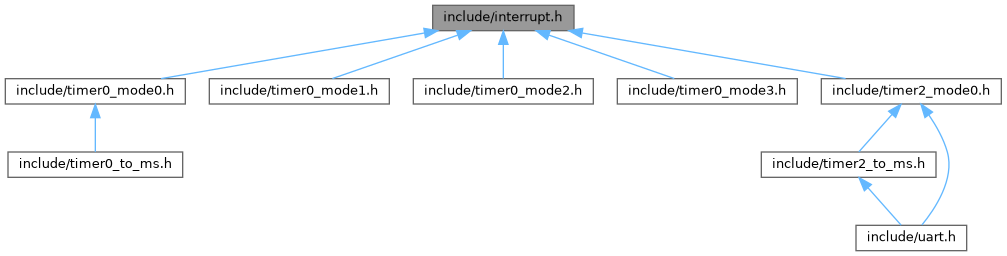
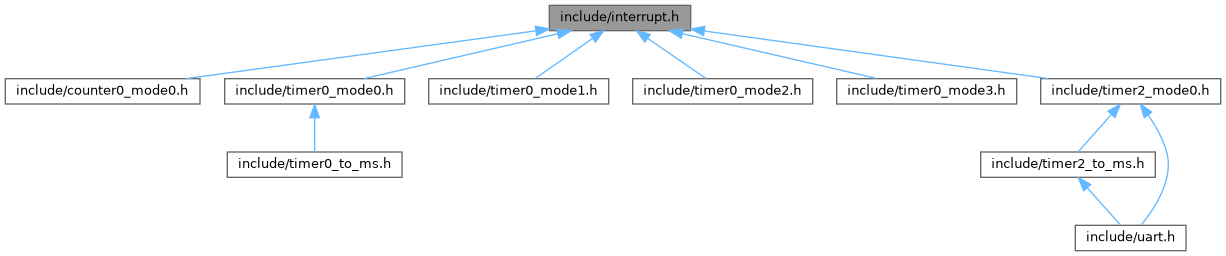
Start to counter implementation

diff --git a/docs/html/files.html b/docs/html/files.html
@@ -77,26 +77,27 @@ $(function() {
 <tr id="row_0_" class="even"><td class="entry"><span style="width:0px;display:inline-block;">&#160;</span><span id="arr_0_" class="arrow" onclick="toggleFolder('0_')">&#9660;</span><span id="img_0_" class="iconfopen" onclick="toggleFolder('0_')">&#160;</span><a class="el" href="dir_d44c64559bbebec7f509842c48db8b23.html" target="_self">include</a></td><td class="desc"></td></tr>
 <tr id="row_0_0_" class="odd"><td class="entry"><span style="width:32px;display:inline-block;">&#160;</span><a href="bits_8h_source.html"><span class="icondoc"></span></a><b>bits.h</b></td><td class="desc"></td></tr>
 <tr id="row_0_1_" class="even"><td class="entry"><span style="width:32px;display:inline-block;">&#160;</span><a href="chip__id_8h_source.html"><span class="icondoc"></span></a><a class="el" href="chip__id_8h.html" target="_self">chip_id.h</a></td><td class="desc"></td></tr>
-<tr id="row_0_2_" class="odd"><td class="entry"><span style="width:32px;display:inline-block;">&#160;</span><a href="delay_8h_source.html"><span class="icondoc"></span></a><a class="el" href="delay_8h.html" target="_self">delay.h</a></td><td class="desc"></td></tr>
-<tr id="row_0_3_" class="even"><td class="entry"><span style="width:32px;display:inline-block;">&#160;</span><a href="frequency_8h_source.html"><span class="icondoc"></span></a><a class="el" href="frequency_8h.html" target="_self">frequency.h</a></td><td class="desc"></td></tr>
-<tr id="row_0_4_" class="odd"><td class="entry"><span style="width:32px;display:inline-block;">&#160;</span><a href="interrupt_8h_source.html"><span class="icondoc"></span></a><a class="el" href="interrupt_8h.html" target="_self">interrupt.h</a></td><td class="desc"></td></tr>
-<tr id="row_0_5_" class="even"><td class="entry"><span style="width:32px;display:inline-block;">&#160;</span><a href="pin_8h_source.html"><span class="icondoc"></span></a><a class="el" href="pin_8h.html" target="_self">pin.h</a></td><td class="desc"></td></tr>
-<tr id="row_0_6_" class="odd"><td class="entry"><span style="width:32px;display:inline-block;">&#160;</span><a href="power__management_8h_source.html"><span class="icondoc"></span></a><a class="el" href="power__management_8h.html" target="_self">power_management.h</a></td><td class="desc"></td></tr>
-<tr id="row_0_7_" class="even"><td class="entry"><span style="width:32px;display:inline-block;">&#160;</span><a href="reset_8h_source.html"><span class="icondoc"></span></a><a class="el" href="reset_8h.html" target="_self">reset.h</a></td><td class="desc"></td></tr>
-<tr id="row_0_8_" class="odd"><td class="entry"><span style="width:32px;display:inline-block;">&#160;</span><a href="STC15Fxx_8h_source.html"><span class="icondoc"></span></a><b>STC15Fxx.h</b></td><td class="desc"></td></tr>
-<tr id="row_0_9_" class="even"><td class="entry"><span style="width:32px;display:inline-block;">&#160;</span><a href="sys_8h_source.html"><span class="icondoc"></span></a><a class="el" href="sys_8h.html" target="_self">sys.h</a></td><td class="desc"></td></tr>
-<tr id="row_0_10_" class="odd"><td class="entry"><span style="width:32px;display:inline-block;">&#160;</span><a href="timer0__mode0_8h_source.html"><span class="icondoc"></span></a><a class="el" href="timer0__mode0_8h.html" target="_self">timer0_mode0.h</a></td><td class="desc"></td></tr>
-<tr id="row_0_11_" class="even"><td class="entry"><span style="width:32px;display:inline-block;">&#160;</span><a href="timer0__mode1_8h_source.html"><span class="icondoc"></span></a><a class="el" href="timer0__mode1_8h.html" target="_self">timer0_mode1.h</a></td><td class="desc"></td></tr>
-<tr id="row_0_12_" class="odd"><td class="entry"><span style="width:32px;display:inline-block;">&#160;</span><a href="timer0__mode2_8h_source.html"><span class="icondoc"></span></a><a class="el" href="timer0__mode2_8h.html" target="_self">timer0_mode2.h</a></td><td class="desc"></td></tr>
-<tr id="row_0_13_" class="even"><td class="entry"><span style="width:32px;display:inline-block;">&#160;</span><a href="timer0__mode3_8h_source.html"><span class="icondoc"></span></a><a class="el" href="timer0__mode3_8h.html" target="_self">timer0_mode3.h</a></td><td class="desc"></td></tr>
-<tr id="row_0_14_" class="odd"><td class="entry"><span style="width:32px;display:inline-block;">&#160;</span><a href="timer0__to__ms_8h_source.html"><span class="icondoc"></span></a><a class="el" href="timer0__to__ms_8h.html" target="_self">timer0_to_ms.h</a></td><td class="desc"></td></tr>
-<tr id="row_0_15_" class="even"><td class="entry"><span style="width:32px;display:inline-block;">&#160;</span><a href="timer2__mode0_8h_source.html"><span class="icondoc"></span></a><a class="el" href="timer2__mode0_8h.html" target="_self">timer2_mode0.h</a></td><td class="desc"></td></tr>
-<tr id="row_0_16_" class="odd"><td class="entry"><span style="width:32px;display:inline-block;">&#160;</span><a href="timer2__to__ms_8h_source.html"><span class="icondoc"></span></a><a class="el" href="timer2__to__ms_8h.html" target="_self">timer2_to_ms.h</a></td><td class="desc"></td></tr>
-<tr id="row_0_17_" class="even"><td class="entry"><span style="width:32px;display:inline-block;">&#160;</span><a href="timer__common_8h_source.html"><span class="icondoc"></span></a><a class="el" href="timer__common_8h.html" target="_self">timer_common.h</a></td><td class="desc"></td></tr>
-<tr id="row_0_18_" class="odd"><td class="entry"><span style="width:32px;display:inline-block;">&#160;</span><a href="timer__structs_8h_source.html"><span class="icondoc"></span></a><b>timer_structs.h</b></td><td class="desc"></td></tr>
-<tr id="row_0_19_" class="even"><td class="entry"><span style="width:32px;display:inline-block;">&#160;</span><a href="timer__to__ms__common_8h_source.html"><span class="icondoc"></span></a><a class="el" href="timer__to__ms__common_8h.html" target="_self">timer_to_ms_common.h</a></td><td class="desc"></td></tr>
-<tr id="row_0_20_" class="odd"><td class="entry"><span style="width:32px;display:inline-block;">&#160;</span><a href="uart_8h_source.html"><span class="icondoc"></span></a><a class="el" href="uart_8h.html" target="_self">uart.h</a></td><td class="desc"></td></tr>
-<tr id="row_0_21_" class="even"><td class="entry"><span style="width:32px;display:inline-block;">&#160;</span><a href="wdt_8h_source.html"><span class="icondoc"></span></a><a class="el" href="wdt_8h.html" target="_self">wdt.h</a></td><td class="desc"></td></tr>
+<tr id="row_0_2_" class="odd"><td class="entry"><span style="width:32px;display:inline-block;">&#160;</span><a href="counter0__mode0_8h_source.html"><span class="icondoc"></span></a><b>counter0_mode0.h</b></td><td class="desc"></td></tr>
+<tr id="row_0_3_" class="even"><td class="entry"><span style="width:32px;display:inline-block;">&#160;</span><a href="delay_8h_source.html"><span class="icondoc"></span></a><a class="el" href="delay_8h.html" target="_self">delay.h</a></td><td class="desc"></td></tr>
+<tr id="row_0_4_" class="odd"><td class="entry"><span style="width:32px;display:inline-block;">&#160;</span><a href="frequency_8h_source.html"><span class="icondoc"></span></a><a class="el" href="frequency_8h.html" target="_self">frequency.h</a></td><td class="desc"></td></tr>
+<tr id="row_0_5_" class="even"><td class="entry"><span style="width:32px;display:inline-block;">&#160;</span><a href="interrupt_8h_source.html"><span class="icondoc"></span></a><a class="el" href="interrupt_8h.html" target="_self">interrupt.h</a></td><td class="desc"></td></tr>
+<tr id="row_0_6_" class="odd"><td class="entry"><span style="width:32px;display:inline-block;">&#160;</span><a href="pin_8h_source.html"><span class="icondoc"></span></a><a class="el" href="pin_8h.html" target="_self">pin.h</a></td><td class="desc"></td></tr>
+<tr id="row_0_7_" class="even"><td class="entry"><span style="width:32px;display:inline-block;">&#160;</span><a href="power__management_8h_source.html"><span class="icondoc"></span></a><a class="el" href="power__management_8h.html" target="_self">power_management.h</a></td><td class="desc"></td></tr>
+<tr id="row_0_8_" class="odd"><td class="entry"><span style="width:32px;display:inline-block;">&#160;</span><a href="reset_8h_source.html"><span class="icondoc"></span></a><a class="el" href="reset_8h.html" target="_self">reset.h</a></td><td class="desc"></td></tr>
+<tr id="row_0_9_" class="even"><td class="entry"><span style="width:32px;display:inline-block;">&#160;</span><a href="STC15Fxx_8h_source.html"><span class="icondoc"></span></a><b>STC15Fxx.h</b></td><td class="desc"></td></tr>
+<tr id="row_0_10_" class="odd"><td class="entry"><span style="width:32px;display:inline-block;">&#160;</span><a href="sys_8h_source.html"><span class="icondoc"></span></a><a class="el" href="sys_8h.html" target="_self">sys.h</a></td><td class="desc"></td></tr>
+<tr id="row_0_11_" class="even"><td class="entry"><span style="width:32px;display:inline-block;">&#160;</span><a href="timer0__mode0_8h_source.html"><span class="icondoc"></span></a><a class="el" href="timer0__mode0_8h.html" target="_self">timer0_mode0.h</a></td><td class="desc"></td></tr>
+<tr id="row_0_12_" class="odd"><td class="entry"><span style="width:32px;display:inline-block;">&#160;</span><a href="timer0__mode1_8h_source.html"><span class="icondoc"></span></a><a class="el" href="timer0__mode1_8h.html" target="_self">timer0_mode1.h</a></td><td class="desc"></td></tr>
+<tr id="row_0_13_" class="even"><td class="entry"><span style="width:32px;display:inline-block;">&#160;</span><a href="timer0__mode2_8h_source.html"><span class="icondoc"></span></a><a class="el" href="timer0__mode2_8h.html" target="_self">timer0_mode2.h</a></td><td class="desc"></td></tr>
+<tr id="row_0_14_" class="odd"><td class="entry"><span style="width:32px;display:inline-block;">&#160;</span><a href="timer0__mode3_8h_source.html"><span class="icondoc"></span></a><a class="el" href="timer0__mode3_8h.html" target="_self">timer0_mode3.h</a></td><td class="desc"></td></tr>
+<tr id="row_0_15_" class="even"><td class="entry"><span style="width:32px;display:inline-block;">&#160;</span><a href="timer0__to__ms_8h_source.html"><span class="icondoc"></span></a><a class="el" href="timer0__to__ms_8h.html" target="_self">timer0_to_ms.h</a></td><td class="desc"></td></tr>
+<tr id="row_0_16_" class="odd"><td class="entry"><span style="width:32px;display:inline-block;">&#160;</span><a href="timer2__mode0_8h_source.html"><span class="icondoc"></span></a><a class="el" href="timer2__mode0_8h.html" target="_self">timer2_mode0.h</a></td><td class="desc"></td></tr>
+<tr id="row_0_17_" class="even"><td class="entry"><span style="width:32px;display:inline-block;">&#160;</span><a href="timer2__to__ms_8h_source.html"><span class="icondoc"></span></a><a class="el" href="timer2__to__ms_8h.html" target="_self">timer2_to_ms.h</a></td><td class="desc"></td></tr>
+<tr id="row_0_18_" class="odd"><td class="entry"><span style="width:32px;display:inline-block;">&#160;</span><a href="timer__common_8h_source.html"><span class="icondoc"></span></a><a class="el" href="timer__common_8h.html" target="_self">timer_common.h</a></td><td class="desc"></td></tr>
+<tr id="row_0_19_" class="even"><td class="entry"><span style="width:32px;display:inline-block;">&#160;</span><a href="timer__structs_8h_source.html"><span class="icondoc"></span></a><b>timer_structs.h</b></td><td class="desc"></td></tr>
+<tr id="row_0_20_" class="odd"><td class="entry"><span style="width:32px;display:inline-block;">&#160;</span><a href="timer__to__ms__common_8h_source.html"><span class="icondoc"></span></a><a class="el" href="timer__to__ms__common_8h.html" target="_self">timer_to_ms_common.h</a></td><td class="desc"></td></tr>
+<tr id="row_0_21_" class="even"><td class="entry"><span style="width:32px;display:inline-block;">&#160;</span><a href="uart_8h_source.html"><span class="icondoc"></span></a><a class="el" href="uart_8h.html" target="_self">uart.h</a></td><td class="desc"></td></tr>
+<tr id="row_0_22_" class="odd"><td class="entry"><span style="width:32px;display:inline-block;">&#160;</span><a href="wdt_8h_source.html"><span class="icondoc"></span></a><a class="el" href="wdt_8h.html" target="_self">wdt.h</a></td><td class="desc"></td></tr>
 </table>
 </div><!-- directory -->
 </div><!-- contents -->

diff --git a/docs/html/sys_8h.html b/docs/html/sys_8h.html
@@ -96,33 +96,33 @@ This graph shows which files directly or indirectly include this file:</div>
 <div class="dyncontent">
 <div class="center"><img src="sys_8h__dep__incl.png" border="0" usemap="#ainclude_2sys_8hdep" alt=""/></div>
 <map name="ainclude_2sys_8hdep" id="ainclude_2sys_8hdep">
-<area shape="rect" title=" " alt="" coords="1033,5,1140,31"/>
+<area shape="rect" title=" " alt="" coords="1168,5,1275,31"/>
 <area shape="rect" href="chip__id_8h.html" title=" " alt="" coords="5,79,136,104"/>
-<area shape="poly" title=" " alt="" coords="1019,25,651,43,405,60,155,81,136,83,136,78,154,76,404,55,650,38,1019,19"/>
+<area shape="poly" title=" " alt="" coords="1155,24,733,41,447,58,155,81,136,83,136,78,154,76,446,53,733,36,1154,19"/>
 <area shape="rect" href="frequency_8h.html" title=" " alt="" coords="407,79,555,104"/>
-<area shape="poly" title=" " alt="" coords="1020,30,556,84,555,79,1019,25"/>
+<area shape="poly" title=" " alt="" coords="1154,28,556,86,556,80,1154,23"/>
 <area shape="rect" href="uart_8h.html" title=" " alt="" coords="582,313,693,339"/>
-<area shape="poly" title=" " alt="" coords="1020,25,695,44,521,60,449,70,395,81,304,101,269,118,254,133,238,153,227,176,224,196,229,214,239,230,255,245,276,258,330,280,395,296,462,308,582,320,581,325,462,313,393,302,329,285,274,263,252,249,235,234,224,216,219,196,222,174,234,151,250,129,266,114,302,96,394,76,448,65,520,55,695,39,1019,19"/>
-<area shape="rect" href="interrupt_8h.html" title=" " alt="" coords="1016,79,1157,104"/>
-<area shape="poly" title=" " alt="" coords="1089,44,1089,79,1084,79,1084,44"/>
+<area shape="poly" title=" " alt="" coords="1154,24,984,30,764,40,550,57,462,68,395,81,304,101,269,118,254,133,238,153,227,176,224,196,229,214,239,230,255,245,276,258,330,280,395,296,462,308,582,320,581,325,462,313,393,302,329,285,274,263,252,249,235,234,224,216,219,196,222,174,234,151,250,129,266,113,302,96,394,76,461,63,549,52,764,35,984,24,1154,18"/>
+<area shape="rect" href="interrupt_8h.html" title=" " alt="" coords="1043,79,1184,104"/>
+<area shape="poly" title=" " alt="" coords="1194,40,1132,81,1130,76,1191,36"/>
 <area shape="rect" href="timer0__mode0_8h.html" title=" " alt="" coords="634,159,814,185"/>
-<area shape="poly" title=" " alt="" coords="1048,38,753,162,751,157,1046,33"/>
-<area shape="rect" href="timer0__mode1_8h.html" title=" " alt="" coords="1042,159,1222,185"/>
-<area shape="poly" title=" " alt="" coords="1050,39,1029,52,1012,68,1003,85,1006,103,1022,121,1041,136,1085,157,1083,162,1039,141,1018,125,1002,105,997,84,1007,65,1026,48,1047,35"/>
-<area shape="rect" href="timer0__mode2_8h.html" title=" " alt="" coords="1246,159,1426,185"/>
-<area shape="poly" title=" " alt="" coords="1118,35,1318,157,1316,161,1115,40"/>
-<area shape="rect" href="timer0__mode3_8h.html" title=" " alt="" coords="1450,159,1630,185"/>
-<area shape="poly" title=" " alt="" coords="1127,34,1223,76,1248,90,1273,102,1381,134,1479,157,1478,162,1380,140,1271,106,1245,94,1220,81,1125,39"/>
+<area shape="poly" title=" " alt="" coords="1160,36,991,81,859,124,755,162,754,157,858,119,990,76,1158,31"/>
+<area shape="rect" href="timer0__mode1_8h.html" title=" " alt="" coords="1262,159,1442,185"/>
+<area shape="poly" title=" " alt="" coords="1229,43,1239,73,1255,102,1291,135,1328,157,1326,162,1288,139,1251,106,1234,75,1224,45"/>
+<area shape="rect" href="timer0__mode2_8h.html" title=" " alt="" coords="1466,159,1646,185"/>
+<area shape="poly" title=" " alt="" coords="1240,40,1268,72,1305,102,1340,116,1391,131,1499,157,1498,162,1389,136,1338,121,1303,106,1265,76,1236,44"/>
+<area shape="rect" href="timer0__mode3_8h.html" title=" " alt="" coords="1670,159,1850,185"/>
+<area shape="poly" title=" " alt="" coords="1249,37,1304,74,1350,102,1434,127,1501,135,1571,139,1659,149,1701,157,1700,162,1658,155,1570,144,1501,141,1433,132,1348,106,1301,79,1246,41"/>
 <area shape="rect" href="timer2__mode0_8h.html" title=" " alt="" coords="838,159,1018,185"/>
-<area shape="poly" title=" " alt="" coords="1053,40,1023,58,995,81,960,123,937,160,932,157,956,119,991,77,1020,54,1050,35"/>
-<area shape="rect" href="pin_8h.html" title=" " alt="" coords="1283,79,1389,104"/>
-<area shape="poly" title=" " alt="" coords="1141,32,1296,76,1295,81,1139,37"/>
-<area shape="rect" href="power__management_8h.html" title=" " alt="" coords="1413,79,1632,104"/>
-<area shape="poly" title=" " alt="" coords="1154,28,1453,76,1452,81,1153,33"/>
-<area shape="rect" href="reset_8h.html" title=" " alt="" coords="1657,79,1775,104"/>
-<area shape="poly" title=" " alt="" coords="1154,23,1372,44,1644,76,1657,78,1656,83,1644,81,1372,50,1153,28"/>
-<area shape="rect" href="wdt_8h.html" title=" " alt="" coords="1800,79,1909,104"/>
-<area shape="poly" title=" " alt="" coords="1154,20,1431,40,1609,56,1788,76,1800,78,1799,83,1788,81,1608,61,1430,45,1153,26"/>
+<area shape="poly" title=" " alt="" coords="1156,35,1094,53,1032,81,1004,100,978,122,940,161,936,157,975,118,1001,96,1029,76,1092,48,1154,30"/>
+<area shape="rect" href="pin_8h.html" title=" " alt="" coords="1361,79,1466,104"/>
+<area shape="poly" title=" " alt="" coords="1266,33,1383,76,1381,81,1264,38"/>
+<area shape="rect" href="power__management_8h.html" title=" " alt="" coords="1491,79,1709,104"/>
+<area shape="poly" title=" " alt="" coords="1288,29,1539,76,1538,81,1287,34"/>
+<area shape="rect" href="reset_8h.html" title=" " alt="" coords="1734,79,1853,104"/>
+<area shape="poly" title=" " alt="" coords="1289,24,1483,46,1722,76,1734,78,1733,83,1721,81,1482,51,1288,29"/>
+<area shape="rect" href="wdt_8h.html" title=" " alt="" coords="1877,79,1987,104"/>
+<area shape="poly" title=" " alt="" coords="1289,21,1543,41,1866,76,1877,78,1877,83,1865,81,1542,47,1288,26"/>
 <area shape="rect" href="delay_8h.html" title=" " alt="" coords="262,159,381,185"/>
 <area shape="poly" title=" " alt="" coords="447,112,346,162,343,157,445,108"/>
 <area shape="rect" href="timer0__to__ms_8h.html" title=" " alt="" coords="351,240,526,265"/>
@@ -134,11 +134,13 @@ This graph shows which files directly or indirectly include this file:</div>
 <area shape="poly" title=" " alt="" coords="640,279,640,313,635,313,635,279"/>
 <area shape="poly" title=" " alt="" coords="467,205,447,241,443,238,462,203"/>
 <area shape="poly" title=" " alt="" coords="532,196,615,237,613,242,529,200"/>
-<area shape="poly" title=" " alt="" coords="1021,110,777,162,776,157,1020,104"/>
-<area shape="poly" title=" " alt="" coords="1103,115,1128,158,1123,160,1098,117"/>
-<area shape="poly" title=" " alt="" coords="1137,106,1300,157,1299,162,1135,111"/>
-<area shape="poly" title=" " alt="" coords="1170,104,1439,149,1479,157,1478,162,1438,155,1169,109"/>
-<area shape="poly" title=" " alt="" coords="1053,112,952,162,950,157,1050,108"/>
+<area shape="rect" href="counter0__mode0_8h_source.html" title=" " alt="" coords="1043,159,1237,185"/>
+<area shape="poly" title=" " alt="" coords="1124,116,1139,158,1134,160,1119,118"/>
+<area shape="poly" title=" " alt="" coords="1044,109,781,162,780,157,1043,104"/>
+<area shape="poly" title=" " alt="" coords="1162,106,1318,157,1316,162,1160,111"/>
+<area shape="poly" title=" " alt="" coords="1194,104,1455,149,1495,157,1494,162,1454,155,1193,109"/>
+<area shape="poly" title=" " alt="" coords="1198,97,1408,118,1659,149,1703,157,1702,162,1658,155,1407,123,1197,103"/>
+<area shape="poly" title=" " alt="" coords="1075,112,956,162,954,157,1073,107"/>
 <area shape="poly" title=" " alt="" coords="670,191,481,243,480,237,669,186"/>
 <area shape="poly" title=" " alt="" coords="874,191,680,243,679,237,872,186"/>
 <area shape="poly" title=" " alt="" coords="895,193,661,316,658,311,893,189"/>

diff --git a/docs/html/counter0__mode0_8h_source.html b/docs/html/counter0__mode0_8h_source.html
@@ -5,7 +5,7 @@
 <meta http-equiv="X-UA-Compatible" content="IE=11"/>
 <meta name="generator" content="Doxygen 1.9.8"/>
 <meta name="viewport" content="width=device-width, initial-scale=1"/>
-<title>STC15W408AS library: src Directory Reference</title>
+<title>STC15W408AS library: include/counter0_mode0.h Source File</title>
 <link href="tabs.css" rel="stylesheet" type="text/css"/>
 <script type="text/javascript" src="jquery.js"></script>
 <script type="text/javascript" src="dynsections.js"></script>
@@ -46,6 +46,11 @@ $(function() {
 /* @license-end */
 </script>
 <div id="main-nav"></div>
+<script type="text/javascript">
+/* @license magnet:?xt=urn:btih:d3d9a9a6595521f9666a5e94cc830dab83b65699&amp;dn=expat.txt MIT */
+$(document).ready(function() { init_codefold(0); });
+/* @license-end */
+</script>
 <!-- window showing the filter options -->
 <div id="MSearchSelectWindow"
      onmouseover="return searchBox.OnSearchSelectShow()"
@@ -69,25 +74,31 @@ $(function() {
 
 <div id="nav-path" class="navpath">
   <ul>
-<li class="navelem"><a class="el" href="dir_68267d1309a1af8e8297ef4c3efbcdba.html">src</a></li>  </ul>
+<li class="navelem"><a class="el" href="dir_d44c64559bbebec7f509842c48db8b23.html">include</a></li>  </ul>
 </div>
 </div><!-- top -->
 <div class="header">
-  <div class="headertitle"><div class="title">src Directory Reference</div></div>
+  <div class="headertitle"><div class="title">counter0_mode0.h</div></div>
 </div><!--header-->
 <div class="contents">
-<div class="dynheader">
-Directory dependency graph for src:</div>
-<div class="dyncontent">
-<div class="center"><img src="dir_68267d1309a1af8e8297ef4c3efbcdba_dep.png" border="0" usemap="#adir__68267d1309a1af8e8297ef4c3efbcdba__dep" alt="src"/></div>
-<map name="adir__68267d1309a1af8e8297ef4c3efbcdba__dep" id="adir__68267d1309a1af8e8297ef4c3efbcdba__dep">
-<area shape="rect" href="dir_68267d1309a1af8e8297ef4c3efbcdba.html" title="src" alt="" coords="19,5,61,31"/>
-<area shape="rect" href="dir_d44c64559bbebec7f509842c48db8b23.html" title="include" alt="" coords="5,79,75,104"/>
-<area shape="poly" href="dir_000022_000011.html" alt="" coords="43,31,43,65,37,65,37,31"/>
-<area shape="rect" href="dir_000022_000011.html" title="4" alt="" coords="44,53,53,68"/>
-</map>
-</div>
-</div><!-- contents -->
+<div class="fragment"><div class="line"><a id="l00001" name="l00001"></a><span class="lineno">    1</span><span class="preprocessor">#ifndef STC15_COUNTER0_MODE0H</span></div>
+<div class="line"><a id="l00002" name="l00002"></a><span class="lineno">    2</span><span class="preprocessor">#define STC15_COUNTER0_MODE0H</span></div>
+<div class="line"><a id="l00003" name="l00003"></a><span class="lineno">    3</span> </div>
+<div class="line"><a id="l00004" name="l00004"></a><span class="lineno">    4</span><span class="preprocessor">#include &lt;stdint.h&gt;</span></div>
+<div class="line"><a id="l00005" name="l00005"></a><span class="lineno">    5</span> </div>
+<div class="line"><a id="l00006" name="l00006"></a><span class="lineno">    6</span><span class="preprocessor">#include &lt;<a class="code" href="interrupt_8h.html">interrupt.h</a>&gt;</span></div>
+<div class="line"><a id="l00007" name="l00007"></a><span class="lineno">    7</span> </div>
+<div class="line"><a id="l00008" name="l00008"></a><span class="lineno">    8</span><span class="preprocessor">#define T0 P34</span></div>
+<div class="line"><a id="l00009" name="l00009"></a><span class="lineno">    9</span> </div>
+<div class="line"><a id="l00010" name="l00010"></a><span class="lineno">   10</span><span class="keywordtype">void</span> counter0_mode0_init();</div>
+<div class="line"><a id="l00011" name="l00011"></a><span class="lineno">   11</span><span class="keywordtype">void</span> counter0_mode0_start();</div>
+<div class="line"><a id="l00012" name="l00012"></a><span class="lineno">   12</span><span class="keywordtype">void</span> counter0_mode0_stop();</div>
+<div class="line"><a id="l00013" name="l00013"></a><span class="lineno">   13</span><span class="keywordtype">void</span> counter0_mode0_set_value(uint16_t value);</div>
+<div class="line"><a id="l00014" name="l00014"></a><span class="lineno">   14</span>uint16_t counter0_mode0_get_value();</div>
+<div class="line"><a id="l00015" name="l00015"></a><span class="lineno">   15</span> </div>
+<div class="line"><a id="l00016" name="l00016"></a><span class="lineno">   16</span><span class="preprocessor">#endif</span></div>
+<div class="ttc" id="ainterrupt_8h_html"><div class="ttname"><a href="interrupt_8h.html">interrupt.h</a></div></div>
+</div><!-- fragment --></div><!-- contents -->
 <!-- start footer part -->
 <hr class="footer"/><address class="footer"><small>
 Generated by&#160;<a href="https://www.doxygen.org/index.html"><img class="footer" src="doxygen.svg" width="104" height="31" alt="doxygen"/></a> 1.9.8

diff --git a/docs/html/interrupt_8h.html b/docs/html/interrupt_8h.html
@@ -105,24 +105,26 @@ This graph shows which files directly or indirectly include this file:</div>
 <div class="dyncontent">
 <div class="center"><img src="interrupt_8h__dep__incl.png" border="0" usemap="#ainclude_2interrupt_8hdep" alt=""/></div>
 <map name="ainclude_2interrupt_8hdep" id="ainclude_2interrupt_8hdep">
-<area shape="rect" title=" " alt="" coords="433,5,574,31"/>
-<area shape="rect" href="timer0__mode0_8h.html" title=" " alt="" coords="5,79,185,104"/>
-<area shape="poly" title=" " alt="" coords="425,36,162,81,161,76,424,30"/>
-<area shape="rect" href="timer0__mode1_8h.html" title=" " alt="" coords="209,79,389,104"/>
-<area shape="poly" title=" " alt="" coords="459,38,333,81,331,76,457,33"/>
-<area shape="rect" href="timer0__mode2_8h.html" title=" " alt="" coords="413,79,593,104"/>
-<area shape="poly" title=" " alt="" coords="506,44,506,79,501,79,501,44"/>
-<area shape="rect" href="timer0__mode3_8h.html" title=" " alt="" coords="617,79,797,104"/>
-<area shape="poly" title=" " alt="" coords="550,33,675,76,673,81,548,38"/>
-<area shape="rect" href="timer2__mode0_8h.html" title=" " alt="" coords="821,79,1001,104"/>
-<area shape="poly" title=" " alt="" coords="583,30,846,76,845,81,582,36"/>
-<area shape="rect" href="timer0__to__ms_8h.html" title=" " alt="" coords="8,152,183,177"/>
-<area shape="poly" title=" " alt="" coords="98,118,98,152,93,152,93,118"/>
-<area shape="rect" href="timer2__to__ms_8h.html" title=" " alt="" coords="761,152,936,177"/>
-<area shape="poly" title=" " alt="" coords="894,116,861,154,857,150,890,113"/>
-<area shape="rect" href="uart_8h.html" title=" " alt="" coords="856,225,967,251"/>
-<area shape="poly" title=" " alt="" coords="931,114,950,151,951,173,945,194,924,226,920,224,940,192,946,172,945,153,927,116"/>
-<area shape="poly" title=" " alt="" coords="870,186,903,223,899,227,866,189"/>
+<area shape="rect" title=" " alt="" coords="549,5,691,31"/>
+<area shape="rect" href="counter0__mode0_8h_source.html" title=" " alt="" coords="5,79,200,104"/>
+<area shape="poly" title=" " alt="" coords="536,34,186,81,186,76,535,28"/>
+<area shape="rect" href="timer0__mode0_8h.html" title=" " alt="" coords="225,79,405,104"/>
+<area shape="poly" title=" " alt="" coords="558,36,365,81,364,76,557,31"/>
+<area shape="rect" href="timer0__mode1_8h.html" title=" " alt="" coords="429,79,609,104"/>
+<area shape="poly" title=" " alt="" coords="594,41,537,81,534,76,591,36"/>
+<area shape="rect" href="timer0__mode2_8h.html" title=" " alt="" coords="633,79,813,104"/>
+<area shape="poly" title=" " alt="" coords="649,36,707,76,704,81,646,41"/>
+<area shape="rect" href="timer0__mode3_8h.html" title=" " alt="" coords="837,79,1017,104"/>
+<area shape="poly" title=" " alt="" coords="683,31,878,76,876,81,682,36"/>
+<area shape="rect" href="timer2__mode0_8h.html" title=" " alt="" coords="1041,79,1221,104"/>
+<area shape="poly" title=" " alt="" coords="705,28,1049,76,1048,81,704,34"/>
+<area shape="rect" href="timer0__to__ms_8h.html" title=" " alt="" coords="227,152,402,177"/>
+<area shape="poly" title=" " alt="" coords="317,118,317,152,312,152,312,118"/>
+<area shape="rect" href="timer2__to__ms_8h.html" title=" " alt="" coords="981,152,1155,177"/>
+<area shape="poly" title=" " alt="" coords="1113,116,1080,154,1076,150,1109,113"/>
+<area shape="rect" href="uart_8h.html" title=" " alt="" coords="1075,225,1186,251"/>
+<area shape="poly" title=" " alt="" coords="1151,114,1169,151,1170,173,1164,194,1143,226,1139,224,1159,192,1165,172,1164,153,1146,116"/>
+<area shape="poly" title=" " alt="" coords="1089,186,1123,223,1119,227,1085,189"/>
 </map>
 </div>
 </div>

diff --git a/docs/html/dir_000022_000011.html b/docs/html/dir_000022_000011.html
@@ -73,7 +73,7 @@ $(function() {
 </div>
 </div><!-- top -->
 <div class="contents">
-<h3>src &rarr; include Relation</h3><table class="dirtab"><tr class="dirtab"><th class="dirtab">File in src</th><th class="dirtab">Includes file in include</th></tr><tr class="dirtab"><td class="dirtab"><b>uart.c</b></td><td class="dirtab"><a class="el" href="uart_8h.html">uart.h</a></td></tr></table></div><!-- contents -->
+<h3>src &rarr; include Relation</h3><table class="dirtab"><tr class="dirtab"><th class="dirtab">File in src</th><th class="dirtab">Includes file in include</th></tr><tr class="dirtab"><td class="dirtab"><b>counter0_mode0.c</b></td><td class="dirtab"><a class="el" href="delay_8h.html">delay.h</a></td></tr><tr class="dirtab"><td class="dirtab"><b>counter0_mode0.c</b></td><td class="dirtab"><a class="el" href="pin_8h.html">pin.h</a></td></tr><tr class="dirtab"><td class="dirtab"><b>counter0_mode0.c</b></td><td class="dirtab"><a class="el" href="uart_8h.html">uart.h</a></td></tr><tr class="dirtab"><td class="dirtab"><b>uart.c</b></td><td class="dirtab"><a class="el" href="uart_8h.html">uart.h</a></td></tr></table></div><!-- contents -->
 <!-- start footer part -->
 <hr class="footer"/><address class="footer"><small>
 Generated by&#160;<a href="https://www.doxygen.org/index.html"><img class="footer" src="doxygen.svg" width="104" height="31" alt="doxygen"/></a> 1.9.8

diff --git a/docs/html/dir_d44c64559bbebec7f509842c48db8b23.html b/docs/html/dir_d44c64559bbebec7f509842c48db8b23.html
@@ -83,6 +83,8 @@ Files</h2></td></tr>
 <tr class="separator:"><td class="memSeparator" colspan="2">&#160;</td></tr>
 <tr class="memitem:"><td class="memItemLeft" align="right" valign="top"><a href="chip__id_8h_source.html"><span class="icondoc"></span></a>&#160;</td><td class="memItemRight" valign="bottom"><a class="el" href="chip__id_8h.html">chip_id.h</a></td></tr>
 <tr class="separator:"><td class="memSeparator" colspan="2">&#160;</td></tr>
+<tr class="memitem:"><td class="memItemLeft" align="right" valign="top"><a href="counter0__mode0_8h_source.html"><span class="icondoc"></span></a>&#160;</td><td class="memItemRight" valign="bottom"><b>counter0_mode0.h</b></td></tr>
+<tr class="separator:"><td class="memSeparator" colspan="2">&#160;</td></tr>
 <tr class="memitem:"><td class="memItemLeft" align="right" valign="top"><a href="delay_8h_source.html"><span class="icondoc"></span></a>&#160;</td><td class="memItemRight" valign="bottom"><a class="el" href="delay_8h.html">delay.h</a></td></tr>
 <tr class="separator:"><td class="memSeparator" colspan="2">&#160;</td></tr>
 <tr class="memitem:"><td class="memItemLeft" align="right" valign="top"><a href="frequency_8h_source.html"><span class="icondoc"></span></a>&#160;</td><td class="memItemRight" valign="bottom"><a class="el" href="frequency_8h.html">frequency.h</a></td></tr>

diff --git a/docs/html/md_VERSION__HISTORY.html b/docs/html/md_VERSION__HISTORY.html
@@ -224,8 +224,10 @@ $(function() {
 <li>Update lib version in README.md <br  />
 </li>
 </ul>
-<p>Next releases todo</p><ul>
+<p>0.11.0</p><ul>
 <li>TODO Implement counters</li>
+</ul>
+<p>Next releases todo</p><ul>
 <li>TODO Implement UART</li>
 <li>TODO Optimize timer2 baud rate calculation. Use precalculated array of baudrates</li>
 <li>TODO Implement P5.4 as MCU reset source</li>

diff --git a/src/counter0_mode0.c b/src/counter0_mode0.c
@@ -1,0 +1,72 @@
+#include <counter0_mode0.h>
+#include <pin.h>
+
+#include <delay.h>
+
+#include <uart.h>
+#include <stdio.h>
+
+#define LED P10
+#define COUNTER_INIT_VALUE 65435U
+
+void counter0_mode0_init()
+{
+    enable_mcu_interrupts();
+    enable_timer0_interrupt();
+
+    // TMOD.3/GATE = 0;
+    // TMOD.2/(Timer or Counter mode) = 1;
+    // TMOD.1/M1 timer0 = 0; 
+    // TMOD.0/M0 timer0= 0;
+    TMOD |= 0x04; // init Counter0
+
+    counter0_mode0_set_value(0x00);
+}
+
+void counter0_mode0_start()
+{
+    TR0 = 1;
+}
+
+void counter0_mode0_set_value(uint16_t value)
+{
+    TH0 = (uint8_t)(value >> 8);
+    TL0 = (uint8_t)(value & 0xff);
+}
+
+uint16_t counter0_mode0_get_value()
+{
+    return (((uint16_t) TH0) << 8) | TL0;
+}
+
+void counter0_mode0_stop()
+{
+    TR0 = 0;
+}
+
+void timer0ISR(void) __interrupt(1)
+{
+    LED = !LED;
+}
+
+void main()
+{
+    uart1_init(9600);
+
+    counter0_mode0_init();
+    counter0_mode0_set_value(COUNTER_INIT_VALUE);
+    counter0_mode0_start();
+    
+    pin_quasi_bidiretional_init(P3, 4);
+
+    while (1) {
+        T0 = !T0;
+        delay_ms(50);
+        if (!T0)
+        {
+            printf_tiny(
+                "Tick %u\r\n", 
+                counter0_mode0_get_value() - COUNTER_INIT_VALUE);
+        }
+    }
+}

diff --git a/include/counter0_mode0.h b/include/counter0_mode0.h
@@ -1,0 +1,16 @@
+#ifndef STC15_COUNTER0_MODE0H
+#define STC15_COUNTER0_MODE0H
+
+#include <stdint.h>
+
+#include <interrupt.h>
+
+#define T0 P34
+
+void counter0_mode0_init();
+void counter0_mode0_start();
+void counter0_mode0_stop();
+void counter0_mode0_set_value(uint16_t value);
+uint16_t counter0_mode0_get_value();
+
+#endif

diff --git a/VERSION_HISTORY.md b/VERSION_HISTORY.md
@@ -132,8 +132,11 @@
 * Fix examples/timer/auxiliary/timer0/timer0_12T_freq_uint16_example.c. Its was print garbage. 
 * Update lib version in README.md  
 
-Next releases todo
+
+0.11.0
 * TODO Implement counters
+
+Next releases todo
 * TODO Implement UART
 * TODO Optimize timer2 baud rate calculation. Use precalculated array of baudrates
 * TODO Implement P5.4 as MCU reset source
